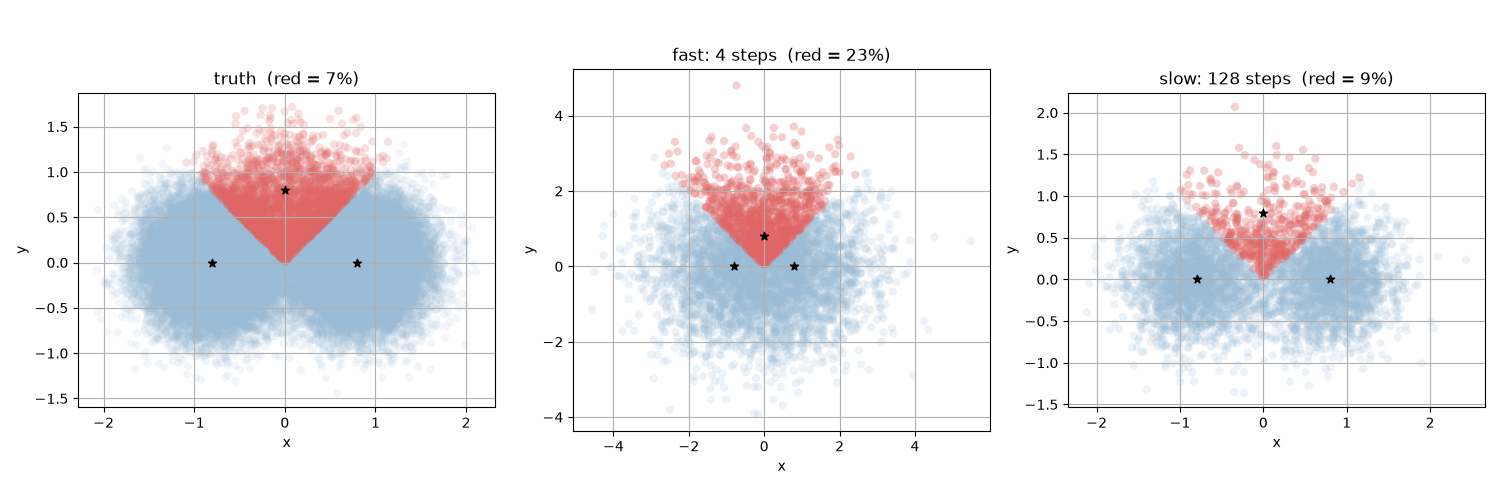
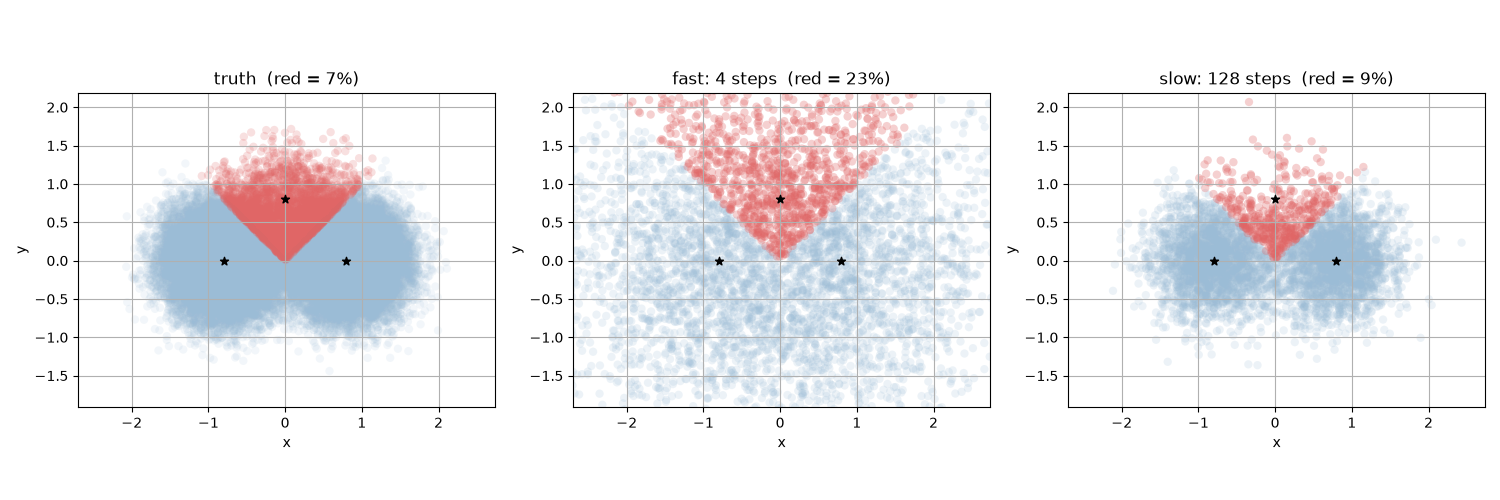
feat: add fast-vs-slow comparisons and all-18 sampler grids
- src/plot_data.py: displacement map, distribution-quality vs steps,
  density-difference heatmap, error-vs-overlap summary, and fast/slow
  overview grids over all 18 cases
- fast_vs_slow panels now share tight axis limits so the cluster centers
  line up across panels
- regenerate affected figures and add the new PNGs

diff --git a/src/plot_data.py b/src/plot_data.py
@@ -7,7 +7,7 @@ import matplotlib
 matplotlib.use("Agg")
 import matplotlib.pyplot as plt
 
-sys.path.insert(0, str(Path(__file__).resolve().parent.parent))
+sys.path.insert(0, str(Path(__file__).resolve().parent / "starter"))
 from starter import ROOT, sample, rare_region
 
 FIGDIR = ROOT / "figures"
@@ -86,6 +86,12 @@ def fast_vs_slow_figure(name, split, fast=4, slow=128):
     fast_pct = fast_rare.mean() * 100
     slow_pct = slow_rare.mean() * 100
 
+    lo = reference.min(0)
+    hi = reference.max(0)
+    pad = 0.15 * (hi - lo)
+    xlim = (lo[0] - pad[0], hi[0] + pad[0])
+    ylim = (lo[1] - pad[1], hi[1] + pad[1])
+
     fig, axes = plt.subplots(1, 3, figsize=(15, 5))
 
     ax = axes[0]
@@ -106,11 +112,176 @@ def fast_vs_slow_figure(name, split, fast=4, slow=128):
     ax.scatter(means[:, 0], means[:, 1], marker="*", c="k", zorder=5)
     style(ax, f"slow: {slow} steps  (red = {slow_pct:.0f}%)")
 
+    for ax in axes:
+        ax.set_xlim(xlim)
+        ax.set_ylim(ylim)
+
     fig.tight_layout()
     out = FIGDIR / f"fast_vs_slow_{name}.png"
     fig.savefig(out)
     plt.close(fig)
     return out, true_pct, fast_pct, slow_pct
+
+
+def displacement_figure(name, split, fast=4, slow=128, n_arrows=300, seed=0):
+    d = load_case(name, split)
+    means, weights = d["means"], d["weights"]
+    terminal = d["terminal"]
+    base = float(d["base_variance"])
+    vmax = float(d["terminal_variance"])
+
+    gen_fast = sample(terminal, vmax * np.linspace(1, 0, fast + 1), means, weights, base)
+    gen_slow = sample(terminal, vmax * np.linspace(1, 0, slow + 1), means, weights, base)
+    gap = np.linalg.norm(gen_fast - gen_slow, axis=1)
+
+    rng = np.random.default_rng(seed)
+    idx = rng.choice(len(terminal), size=min(n_arrows, len(terminal)), replace=False)
+
+    fig, axes = plt.subplots(1, 2, figsize=(13, 5.5))
+
+    ax = axes[0]
+    for i in idx:
+        ax.annotate(
+            "",
+            xy=(gen_slow[i, 0], gen_slow[i, 1]),
+            xytext=(gen_fast[i, 0], gen_fast[i, 1]),
+            arrowprops=dict(arrowstyle="->", color="#555555", lw=0.5, alpha=0.6),
+        )
+    ax.scatter(gen_slow[idx, 0], gen_slow[idx, 1], s=6, c="#2d6a4f", zorder=5)
+    ax.scatter(means[:, 0], means[:, 1], marker="*", c="k", s=120, zorder=6)
+    style(ax, f"arrow: fast ({fast}) -> slow ({slow}) landing spot")
+
+    ax = axes[1]
+    sc = ax.scatter(gen_slow[:, 0], gen_slow[:, 1], c=gap, s=5, cmap="inferno")
+    ax.scatter(means[:, 0], means[:, 1], marker="*", c="c", s=120, zorder=6, edgecolors="k")
+    fig.colorbar(sc, ax=ax, label="distance fast moved from slow")
+    style(ax, "how far each point was off")
+
+    fig.suptitle(f"{name}: per-point gap between fast and slow")
+    fig.tight_layout()
+    out = FIGDIR / f"displacement_{name}.png"
+    fig.savefig(out)
+    plt.close(fig)
+    return out, float(gap.mean()), float(gap.max())
+
+
+def quality_vs_steps_figure(named_cases, steps=(4, 8, 16, 32, 64, 128)):
+    steps = list(steps)
+    cols = 3
+    rows = (len(named_cases) + cols - 1) // cols
+    fig, axes = plt.subplots(rows, cols, figsize=(5 * cols, 4 * rows))
+    axes = np.atleast_1d(axes).ravel()
+    for ax, (name, split) in zip(axes, named_cases):
+        d = load_case(name, split)
+        means, weights = d["means"], d["weights"]
+        reference, terminal = d["reference"], d["terminal"]
+        base = float(d["base_variance"])
+        vmax = float(d["terminal_variance"])
+        ref_mean = reference.mean(0)
+        ref_cov = np.cov(reference.T)
+
+        mean_err, cov_err = [], []
+        for s in steps:
+            gen = sample(terminal, vmax * np.linspace(1, 0, s + 1), means, weights, base)
+            mean_err.append(np.linalg.norm(gen.mean(0) - ref_mean))
+            cov_err.append(np.linalg.norm(np.cov(gen.T) - ref_cov))
+
+        ax.plot(steps, mean_err, marker="o", color="#1f77b4", label="mean L2 error")
+        ax.plot(steps, cov_err, marker="s", color="#d62728", label="cov Frobenius error")
+        ax.set_xscale("log", base=2)
+        ax.set_yscale("log")
+        ax.set_xticks(steps)
+        ax.set_xticklabels([str(s) for s in steps])
+        ax.set_xlabel("number of ODE steps")
+        ax.set_ylabel("error")
+        ax.set_title(name)
+        ax.grid(True, which="both")
+        ax.legend()
+    for ax in axes[len(named_cases):]:
+        ax.axis("off")
+    fig.suptitle("Whole-distribution error (mean, covariance) shrinks as steps grow")
+    fig.tight_layout()
+    out = FIGDIR / "quality_vs_steps.png"
+    fig.savefig(out)
+    plt.close(fig)
+    return out
+
+
+def density_difference_figure(name, split, fast=4, slow=128, bins=80, span=3.0):
+    d = load_case(name, split)
+    means, weights = d["means"], d["weights"]
+    terminal = d["terminal"]
+    base = float(d["base_variance"])
+    vmax = float(d["terminal_variance"])
+
+    gen_fast = sample(terminal, vmax * np.linspace(1, 0, fast + 1), means, weights, base)
+    gen_slow = sample(terminal, vmax * np.linspace(1, 0, slow + 1), means, weights, base)
+
+    edges = np.linspace(-span, span, bins + 1)
+    hf, _, _ = np.histogram2d(gen_fast[:, 0], gen_fast[:, 1], bins=[edges, edges], density=True)
+    hs, _, _ = np.histogram2d(gen_slow[:, 0], gen_slow[:, 1], bins=[edges, edges], density=True)
+    diff = (hf - hs).T
+    limit = float(np.abs(diff).max())
+
+    fig, ax = plt.subplots(figsize=(6.5, 5.5))
+    im = ax.imshow(
+        diff,
+        origin="lower",
+        extent=[-span, span, -span, span],
+        cmap="bwr",
+        vmin=-limit,
+        vmax=limit,
+    )
+    ax.scatter(means[:, 0], means[:, 1], marker="*", c="k", s=120, zorder=5)
+    fig.colorbar(im, ax=ax, label="fast density minus slow density")
+    style(ax, f"{name}: where fast puts extra mass (red) vs less (blue)")
+    fig.tight_layout()
+    out = FIGDIR / f"density_diff_{name}.png"
+    fig.savefig(out)
+    plt.close(fig)
+    return out
+
+
+def error_vs_overlap_figure(cases, fast=4, slow=128):
+    by_geom = {}
+    for c in cases:
+        by_geom.setdefault((c["separation"], c["rare_weight"]), []).append(c)
+
+    rows = []
+    for (sep, w), group in sorted(by_geom.items()):
+        fast_errs, slow_errs = [], []
+        for c in group:
+            d = load_case(c["name"], c["split"])
+            means, weights = d["means"], d["weights"]
+            reference, terminal = d["reference"], d["terminal"]
+            base = float(d["base_variance"])
+            vmax = float(d["terminal_variance"])
+            target = rare_region(reference, means).mean()
+            gf = sample(terminal, vmax * np.linspace(1, 0, fast + 1), means, weights, base)
+            gs = sample(terminal, vmax * np.linspace(1, 0, slow + 1), means, weights, base)
+            fast_errs.append(rare_region(gf, means).mean() - target)
+            slow_errs.append(rare_region(gs, means).mean() - target)
+        rows.append((sep, w, np.mean(fast_errs) * 100, np.mean(slow_errs) * 100))
+
+    rows.sort()
+    seps = [r[0] for r in rows]
+    fast_e = [r[2] for r in rows]
+    slow_e = [r[3] for r in rows]
+
+    fig, ax = plt.subplots(figsize=(7, 5))
+    ax.axhline(0, color="#888888", lw=1)
+    ax.scatter(seps, fast_e, c="#e06666", s=60, zorder=5, label=f"fast ({fast} steps)")
+    ax.scatter(seps, slow_e, c="#2d6a4f", s=60, zorder=5, label=f"slow ({slow} steps)")
+    ax.set_xlabel("separation s (smaller = more overlap)")
+    ax.set_ylabel("region error: sampler minus target (percentage points)")
+    ax.set_title("Fast-sampler region error collapses as clusters separate")
+    ax.grid(True)
+    ax.legend()
+    fig.tight_layout()
+    out = FIGDIR / "error_vs_overlap.png"
+    fig.savefig(out)
+    plt.close(fig)
+    return out
 
 
 def process_figure(name, split, n_steps=6, n_points=4000, seed=0):
@@ -187,7 +358,7 @@ def stepsize_figure(named_cases, steps=(4, 8, 16, 32, 64, 128)):
     return out
 
 
-def overview_figure(cases):
+def overview_figure(cases, mode="truth", steps=None):
     order = sorted(cases, key=lambda c: (c["separation"], c["rare_weight"], c["seed"]))
     cols = 6
     rows = (len(order) + cols - 1) // cols
@@ -195,18 +366,35 @@ def overview_figure(cases):
     axes = np.atleast_1d(axes).ravel()
     for ax, c in zip(axes, order):
         d = load_case(c["name"], c["split"])
-        ref = d["reference"]
-        rare = rare_region(ref, d["means"])
-        blob(ax, ref[~rare], "#9bbcd6", alpha=0.08)
-        blob(ax, ref[rare], "#e06666", alpha=0.25)
-        ax.scatter(d["means"][:, 0], d["means"][:, 1], marker="*", c="k")
-        spread = "clusters far apart" if c["separation"] >= 1.4 else "clusters overlap"
-        style(ax, f"red group = {c['rare_weight']*100:.0f}%\n{spread} (sep {c['separation']})")
+        means = d["means"]
+        if mode == "truth":
+            pts = d["reference"]
+            alpha_bg, alpha_rare = 0.08, 0.25
+        else:
+            grid = float(d["terminal_variance"]) * np.linspace(1, 0, steps + 1)
+            pts = sample(d["terminal"], grid, means, d["weights"], float(d["base_variance"]))
+            alpha_bg, alpha_rare = 0.18, 0.35
+        rare = rare_region(pts, means)
+        blob(ax, pts[~rare], "#9bbcd6", alpha=alpha_bg)
+        blob(ax, pts[rare], "#e06666", alpha=alpha_rare)
+        ax.scatter(means[:, 0], means[:, 1], marker="*", c="k")
+        spread = "far apart" if c["separation"] >= 1.4 else "overlap"
+        pct = rare.mean() * 100
+        lim = float(np.abs(means).max()) + 2.5
+        ax.set_xlim(-lim, lim)
+        ax.set_ylim(-lim, lim)
+        style(ax, f"w={c['rare_weight']*100:.0f}% sep {c['separation']} ({spread})\nred = {pct:.0f}%")
     for ax in axes[len(order):]:
         ax.axis("off")
-    fig.suptitle("Every scenario: red = the rare group. Left/down = harder (rarer, more overlap)")
+    titles = {
+        "truth": "Truth: red = the rare group. Left/down = harder (rarer, more overlap)",
+        "fast": f"Fast sampler ({steps} steps): red fraction overshoots, worst where clusters overlap",
+        "slow": f"Slow sampler ({steps} steps): red fraction close to truth across all cases",
+    }
+    fig.suptitle(titles[mode])
     fig.tight_layout()
-    out = FIGDIR / "overview_all_cases.png"
+    suffix = {"truth": "all_cases", "fast": f"fast_{steps}steps", "slow": f"slow_{steps}steps"}[mode]
+    out = FIGDIR / f"overview_{suffix}.png"
     fig.savefig(out)
     plt.close(fig)
     return out
@@ -237,6 +425,10 @@ def main():
 
     out = overview_figure(cases)
     print(f"Overview figure: {out.name}")
+    out = overview_figure(cases, mode="fast", steps=4)
+    print(f"Overview (fast sampler): {out.name}")
+    out = overview_figure(cases, mode="slow", steps=128)
+    print(f"Overview (slow sampler): {out.name}")
 
     named = [(name, by_name[name]["split"]) for name in highlight]
     out = stepsize_figure(named)
@@ -247,6 +439,25 @@ def main():
         c = by_name[name]
         out, true_pct, fast_pct, slow_pct = fast_vs_slow_figure(name, c["split"])
         print(f"  {out.name:45s} truth {true_pct:4.1f}%  fast {fast_pct:4.1f}%  slow {slow_pct:4.1f}%")
+
+    print("Per-point displacement figures:")
+    for name in ["development_r0.02_s0.8_seed940", "development_r0.02_s2.0_seed940"]:
+        c = by_name[name]
+        out, gap_mean, gap_max = displacement_figure(name, c["split"])
+        print(f"  {out.name:45s} mean gap {gap_mean:.3f}  max gap {gap_max:.3f}")
+
+    print("Density-difference figures:")
+    for name in ["development_r0.02_s0.8_seed940", "development_r0.02_s2.0_seed940"]:
+        c = by_name[name]
+        out = density_difference_figure(name, c["split"])
+        print(f"  {out.name}")
+
+    named = [(name, by_name[name]["split"]) for name in highlight]
+    out = quality_vs_steps_figure(named)
+    print(f"Distribution-quality figure: {out.name}")
+
+    out = error_vs_overlap_figure(cases)
+    print(f"Error-vs-overlap figure: {out.name}")
     print(f"\nAll figures saved under: {FIGDIR}")
 
 
